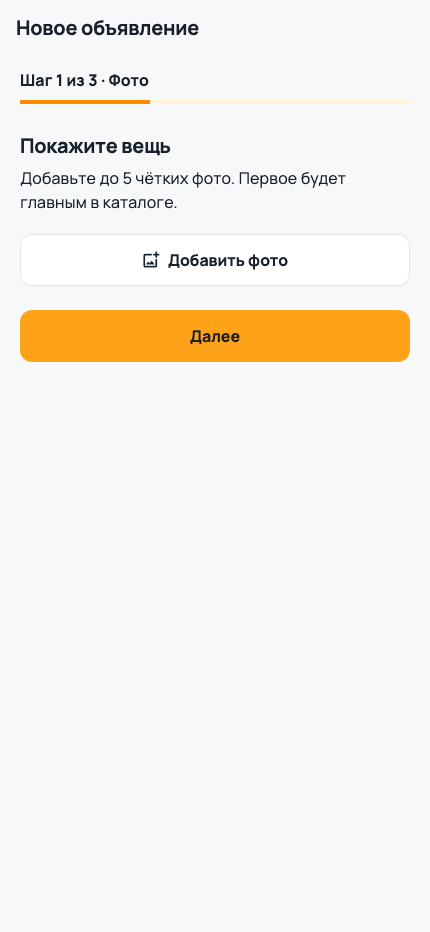
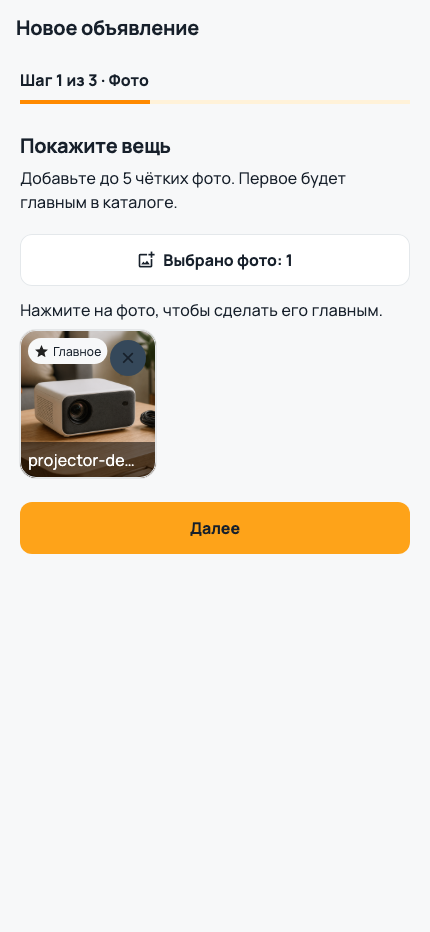
feat(mobile): preview listing photos before submit

Changed region(s): [[0.0302, 0.2489, 0.9674, 0.6223]]

diff --git a/mobile/lib/features/item/presentation/create_item_screen.dart b/mobile/lib/features/item/presentation/create_item_screen.dart
@@ -1,4 +1,5 @@
 import 'dart:async';
+import 'dart:typed_data';
 
 import 'package:flutter/material.dart';
 import 'package:flutter_form_builder/flutter_form_builder.dart';
@@ -179,25 +180,20 @@ class _CreateItemScreenState extends ConsumerState<CreateItemScreen> {
           const SizedBox(height: 12),
           const Text('Нажмите на фото, чтобы сделать его главным.'),
           const SizedBox(height: 8),
-          Wrap(
-            spacing: 8,
-            runSpacing: 8,
-            children: [
-              for (var index = 0; index < _photos.length; index += 1)
-                InputChip(
-                  avatar: Icon(
-                    index == 0 ? Icons.star : Icons.image_outlined,
-                    size: 18,
-                  ),
-                  label: Text(
-                    index == 0
-                        ? 'Главное · ${_photos[index].name}'
-                        : _photos[index].name,
-                  ),
-                  onPressed: isSubmitting ? null : () => _makeCover(index),
-                  onDeleted: isSubmitting ? null : () => _removePhoto(index),
-                ),
-            ],
+          SizedBox(
+            height: 148,
+            child: ListView.separated(
+              scrollDirection: Axis.horizontal,
+              itemCount: _photos.length,
+              separatorBuilder: (_, _) => const SizedBox(width: 10),
+              itemBuilder: (context, index) => _SelectedPhotoCard(
+                photo: _photos[index],
+                isCover: index == 0,
+                enabled: !isSubmitting,
+                onMakeCover: () => _makeCover(index),
+                onDelete: () => _removePhoto(index),
+              ),
+            ),
           ),
         ],
         const SizedBox(height: 24),
@@ -664,6 +660,160 @@ class _CreateItemScreenState extends ConsumerState<CreateItemScreen> {
       ];
       _photoError = _photos.isEmpty;
     });
+  }
+}
+
+class _SelectedPhotoCard extends StatefulWidget {
+  const _SelectedPhotoCard({
+    required this.photo,
+    required this.isCover,
+    required this.enabled,
+    required this.onMakeCover,
+    required this.onDelete,
+  });
+
+  final XFile photo;
+  final bool isCover;
+  final bool enabled;
+  final VoidCallback onMakeCover;
+  final VoidCallback onDelete;
+
+  @override
+  State<_SelectedPhotoCard> createState() => _SelectedPhotoCardState();
+}
+
+class _SelectedPhotoCardState extends State<_SelectedPhotoCard> {
+  late Future<Uint8List> _bytes;
+
+  @override
+  void initState() {
+    super.initState();
+    _bytes = widget.photo.readAsBytes();
+  }
+
+  @override
+  void didUpdateWidget(covariant _SelectedPhotoCard oldWidget) {
+    super.didUpdateWidget(oldWidget);
+    if (oldWidget.photo.path != widget.photo.path) {
+      _bytes = widget.photo.readAsBytes();
+    }
+  }
+
+  @override
+  Widget build(BuildContext context) {
+    return Semantics(
+      button: widget.enabled,
+      label: widget.isCover
+          ? 'Главное фото ${widget.photo.name}'
+          : 'Сделать главным фото ${widget.photo.name}',
+      child: SizedBox(
+        width: 136,
+        child: Card(
+          clipBehavior: Clip.antiAlias,
+          margin: EdgeInsets.zero,
+          child: InkWell(
+            key: ValueKey('selected-photo-${widget.photo.name}'),
+            onTap: widget.enabled ? widget.onMakeCover : null,
+            child: Stack(
+              fit: StackFit.expand,
+              children: [
+                FutureBuilder<Uint8List>(
+                  future: _bytes,
+                  builder: (context, snapshot) {
+                    if (!snapshot.hasData) {
+                      return const ColoredBox(
+                        color: Color(0xFFFFF0D6),
+                        child: Center(child: CircularProgressIndicator()),
+                      );
+                    }
+                    return Image.memory(
+                      snapshot.data!,
+                      fit: BoxFit.cover,
+                      excludeFromSemantics: true,
+                      errorBuilder: (_, _, _) => const _PhotoPreviewFallback(),
+                    );
+                  },
+                ),
+                if (widget.isCover)
+                  Positioned(
+                    left: 8,
+                    top: 8,
+                    child: DecoratedBox(
+                      decoration: BoxDecoration(
+                        color: Theme.of(context).colorScheme.surface,
+                        borderRadius: BorderRadius.circular(999),
+                      ),
+                      child: const Padding(
+                        padding: EdgeInsets.symmetric(
+                          horizontal: 6,
+                          vertical: 4,
+                        ),
+                        child: Row(
+                          mainAxisSize: MainAxisSize.min,
+                          children: [
+                            Icon(Icons.star, size: 15),
+                            SizedBox(width: 4),
+                            Text('Главное', style: TextStyle(fontSize: 12)),
+                          ],
+                        ),
+                      ),
+                    ),
+                  ),
+                Positioned(
+                  right: 4,
+                  top: 4,
+                  child: IconButton.filledTonal(
+                    key: ValueKey(
+                      'delete-selected-photo-${widget.photo.name}',
+                    ),
+                    onPressed: widget.enabled ? widget.onDelete : null,
+                    tooltip: 'Удалить фото ${widget.photo.name}',
+                    constraints: const BoxConstraints.tightFor(
+                      width: 36,
+                      height: 36,
+                    ),
+                    padding: EdgeInsets.zero,
+                    icon: const Icon(Icons.close, size: 18),
+                  ),
+                ),
+                Positioned(
+                  left: 0,
+                  right: 0,
+                  bottom: 0,
+                  child: ColoredBox(
+                    color: Colors.black54,
+                    child: Padding(
+                      padding: const EdgeInsets.symmetric(
+                        horizontal: 8,
+                        vertical: 6,
+                      ),
+                      child: Text(
+                        widget.photo.name,
+                        maxLines: 1,
+                        overflow: TextOverflow.ellipsis,
+                        style: const TextStyle(color: Colors.white),
+                      ),
+                    ),
+                  ),
+                ),
+              ],
+            ),
+          ),
+        ),
+      ),
+    );
+  }
+}
+
+class _PhotoPreviewFallback extends StatelessWidget {
+  const _PhotoPreviewFallback();
+
+  @override
+  Widget build(BuildContext context) {
+    return const ColoredBox(
+      color: Color(0xFFFFF0D6),
+      child: Center(child: Icon(Icons.broken_image_outlined, size: 36)),
+    );
   }
 }
 

diff --git a/mobile/tool/capture_client_screenshots_test.dart b/mobile/tool/capture_client_screenshots_test.dart
@@ -1,11 +1,15 @@
+import 'dart:io';
+
 import 'package:dio/dio.dart';
 import 'package:flutter/material.dart';
 import 'package:flutter_riverpod/flutter_riverpod.dart';
 import 'package:flutter/services.dart';
 import 'package:flutter_test/flutter_test.dart';
+import 'package:image_picker/image_picker.dart';
 import 'package:mobile/core/analytics/analytics.dart';
 import 'package:mobile/core/compatibility/compatibility_gate.dart';
 import 'package:mobile/core/compatibility/update_required_screen.dart';
+import 'package:mobile/core/permissions/app_permissions.dart';
 import 'package:mobile/core/router/app_shell.dart';
 import 'package:mobile/core/theme/app_theme.dart';
 import 'package:mobile/features/auth/data/auth_models.dart';
@@ -58,8 +62,10 @@ import 'package:mobile/features/support/data/support_models.dart';
 import 'package:mobile/features/support/data/support_service.dart';
 import 'package:mobile/features/support/presentation/support_screen.dart';
 import 'package:mobile/features/support/presentation/support_ticket_screen.dart';
+import 'package:permission_handler/permission_handler.dart';
 
 const _captureKey = ValueKey('client-screenshot-boundary');
+late final Uint8List _projectorDemoBytes;
 
 void main() {
   setUpAll(() async {
@@ -68,6 +74,9 @@ void main() {
     final materialIcons = FontLoader('MaterialIcons')
       ..addFont(rootBundle.load('fonts/MaterialIcons-Regular.otf'));
     await Future.wait([manrope.load(), materialIcons.load()]);
+    _projectorDemoBytes = File(
+      'tool/fixtures/projector-demo.png',
+    ).readAsBytesSync();
   });
 
   _screenshot('01-onboarding.png', () => _scope(const OnboardingScreen()));
@@ -194,8 +203,22 @@ void main() {
         createItemDraftStorageProvider.overrideWithValue(
           _ScreenshotDraftStorage(),
         ),
+        appPermissionGatewayProvider.overrideWithValue(
+          _ScreenshotPermissionGateway(),
+        ),
+        itemPhotoPickerProvider.overrideWithValue(_ScreenshotPhotoPicker()),
       ],
     ),
+    prepare: (tester) async {
+      await tester.runAsync(
+        () => precacheImage(
+          MemoryImage(_projectorDemoBytes),
+          tester.element(find.byType(CreateItemScreen)),
+        ),
+      );
+      await tester.tap(find.text('Добавить фото'));
+      await tester.pumpAndSettle();
+    },
   );
   _screenshot(
     '12-owned-items.png',
@@ -532,6 +555,32 @@ class _ScreenshotDraftStorage extends CreateItemDraftStorage {
 
   @override
   Future<void> clear() async {}
+}
+
+class _ScreenshotPhotoPicker extends ItemPhotoPicker {
+  _ScreenshotPhotoPicker() : super(ImagePicker());
+
+  @override
+  Future<List<XFile>> pick() async {
+    return [
+      XFile.fromData(
+        _projectorDemoBytes,
+        path: 'projector-demo.png',
+        name: 'projector-demo.png',
+        mimeType: 'image/png',
+      ),
+    ];
+  }
+}
+
+class _ScreenshotPermissionGateway implements AppPermissionGateway {
+  @override
+  Future<PermissionStatus> request(AppPermission permission) async {
+    return PermissionStatus.granted;
+  }
+
+  @override
+  Future<bool> openSettings() async => true;
 }
 
 class _UnauthenticatedAuthController extends AuthController {

diff --git a/mobile/test/features/item/create_item_screen_test.dart b/mobile/test/features/item/create_item_screen_test.dart
@@ -1,3 +1,4 @@
+import 'dart:convert';
 import 'dart:typed_data';
 
 import 'package:dio/dio.dart';
@@ -93,6 +94,44 @@ void main() {
 
     expect(find.text('Выбрано фото: 1'), findsOneWidget);
     expect(find.byIcon(Icons.star), findsOneWidget);
+  });
+
+  testWidgets('previews photos and lets the lender change the cover', (
+    tester,
+  ) async {
+    _useTallSurface(tester);
+    final picker = _FakePhotoPicker([
+      _photo('first.png'),
+      _photo('second.png'),
+    ]);
+    await tester.pumpWidget(_app(_FakeCreateItemService(), picker: picker));
+    await tester.pumpAndSettle();
+
+    await tester.tap(find.text('Добавить фото'));
+    await tester.pumpAndSettle();
+
+    final first = find.byKey(const ValueKey('selected-photo-first.png'));
+    final second = find.byKey(const ValueKey('selected-photo-second.png'));
+    expect(first, findsOneWidget);
+    expect(second, findsOneWidget);
+    expect(
+      find.descendant(of: first, matching: find.text('Главное')),
+      findsOneWidget,
+    );
+
+    await tester.tap(second);
+    await tester.pumpAndSettle();
+    expect(
+      find.descendant(of: second, matching: find.text('Главное')),
+      findsOneWidget,
+    );
+
+    await tester.tap(
+      find.byKey(const ValueKey('delete-selected-photo-second.png')),
+    );
+    await tester.pumpAndSettle();
+    expect(second, findsNothing);
+    expect(first, findsOneWidget);
   });
 
   testWidgets('does not open the picker after photo permission is denied', (
@@ -325,21 +364,31 @@ class _FakeCreateItemService extends CreateItemService {
 }
 
 class _FakePhotoPicker extends ItemPhotoPicker {
-  _FakePhotoPicker() : super(ImagePicker());
+  _FakePhotoPicker([List<XFile>? photos])
+    : _photos = photos ?? [_photo('photo.jpg')],
+      super(ImagePicker());
 
+  final List<XFile> _photos;
   var calls = 0;
 
   @override
   Future<List<XFile>> pick() async {
     calls += 1;
-    return [
-      XFile.fromData(
-        Uint8List.fromList([1, 2, 3]),
-        name: 'photo.jpg',
-        mimeType: 'image/jpeg',
-      ),
-    ];
+    return _photos;
   }
+}
+
+XFile _photo(String name) {
+  return XFile.fromData(
+    Uint8List.fromList(
+      base64Decode(
[1 lines of base64/hex data omitted]
+      ),
+    ),
+    path: name,
+    name: name,
+    mimeType: 'image/png',
+  );
 }
 
 class _FakeDraftStorage extends CreateItemDraftStorage {
